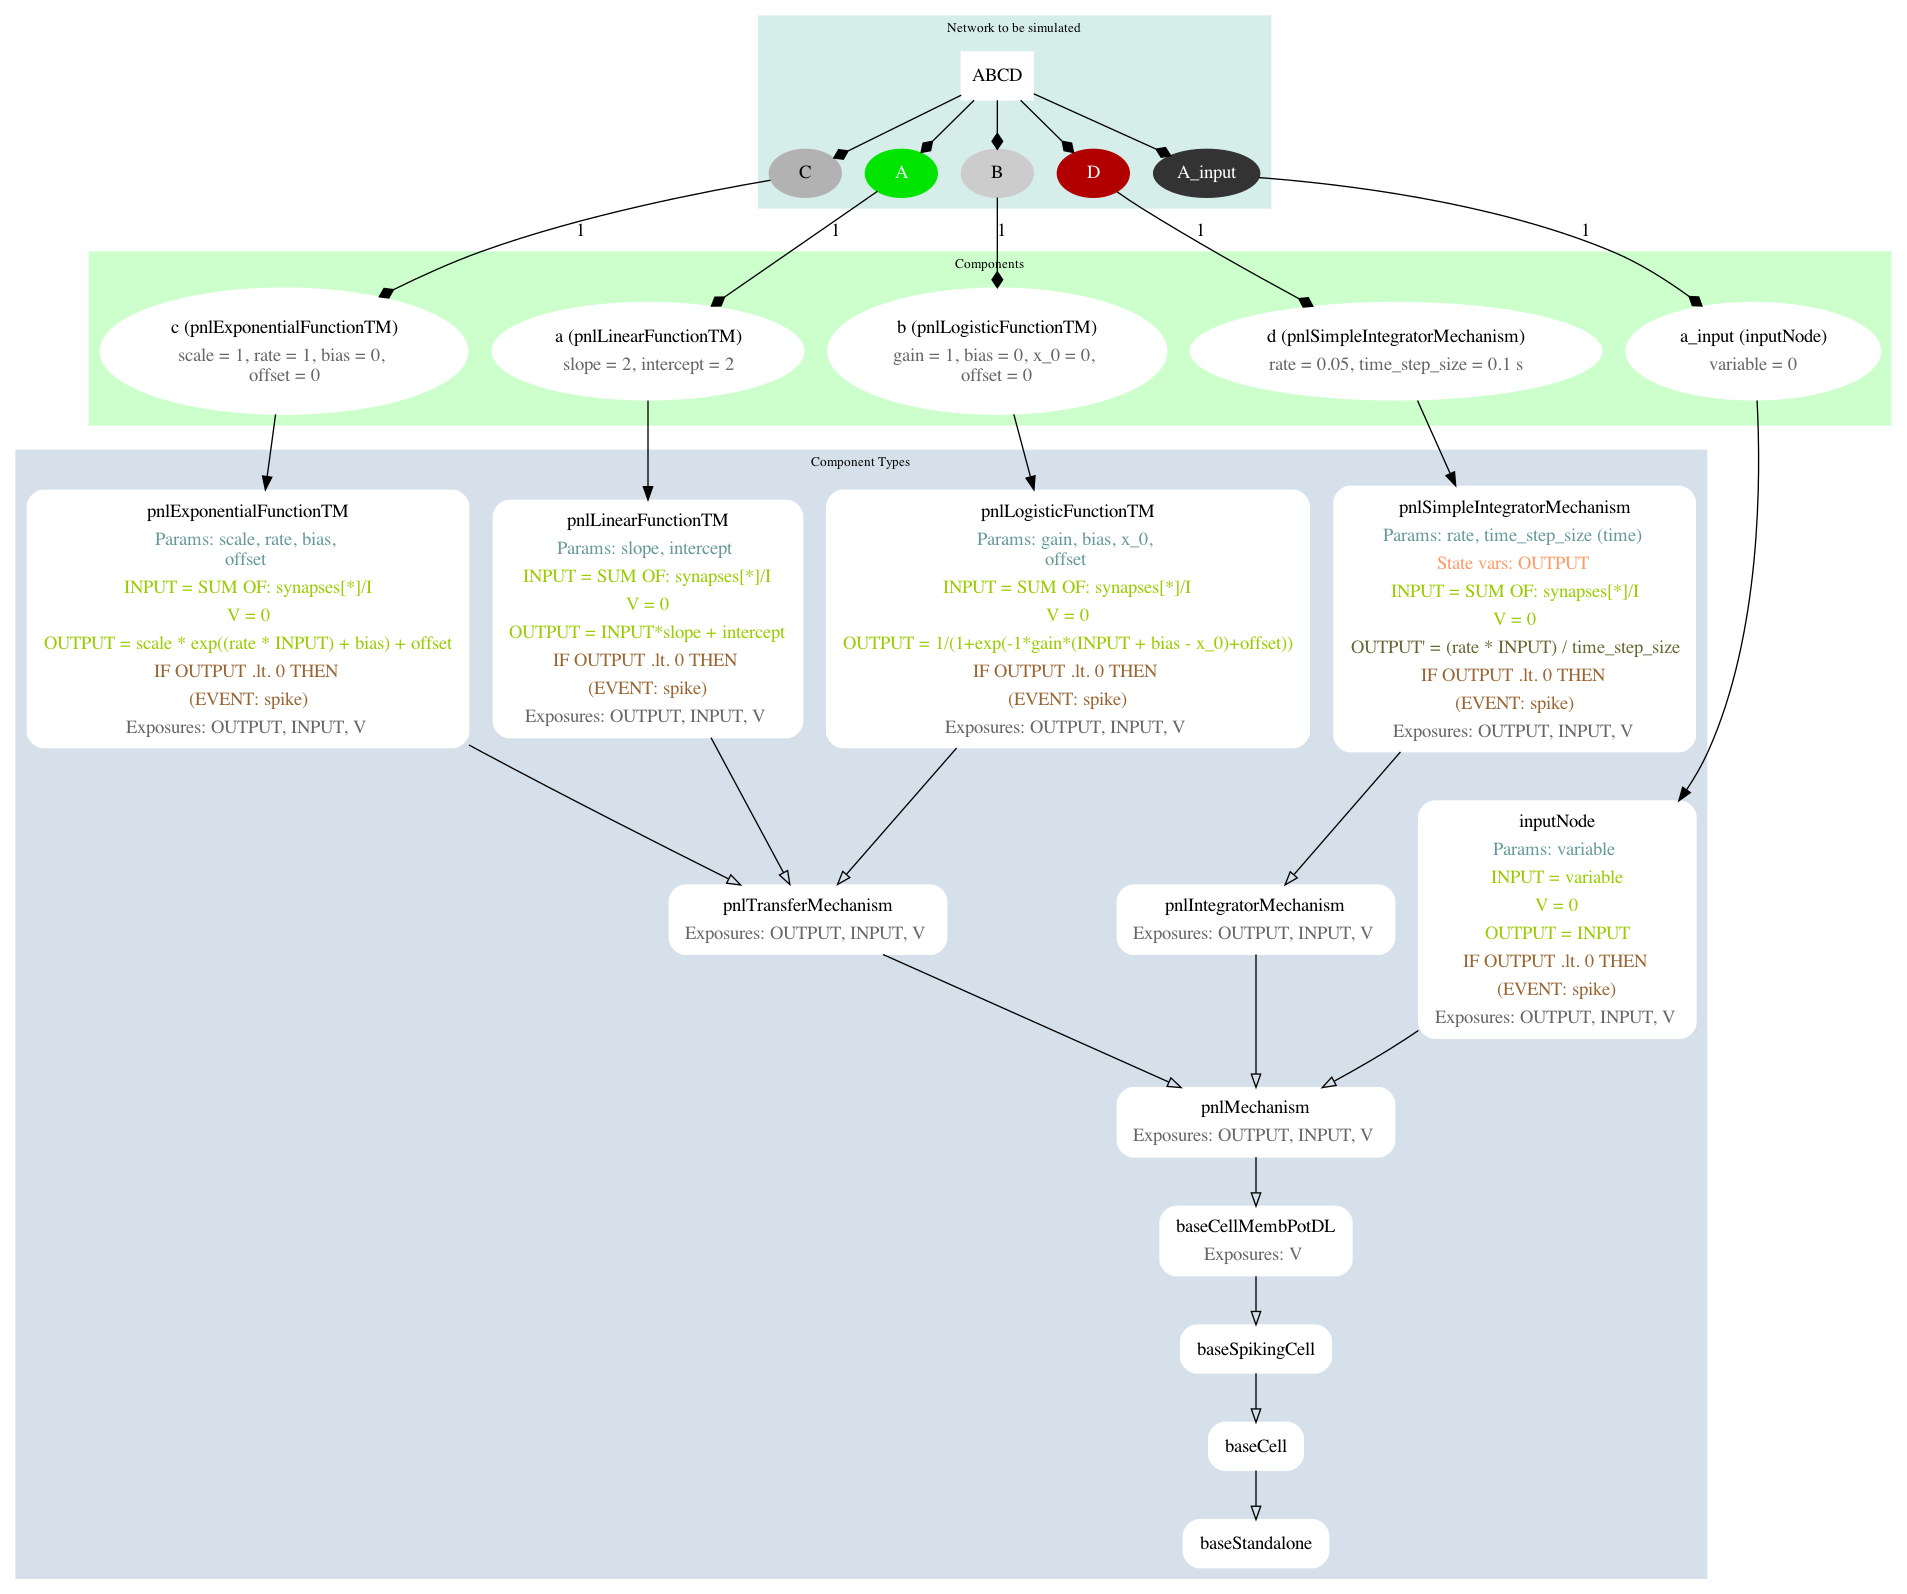
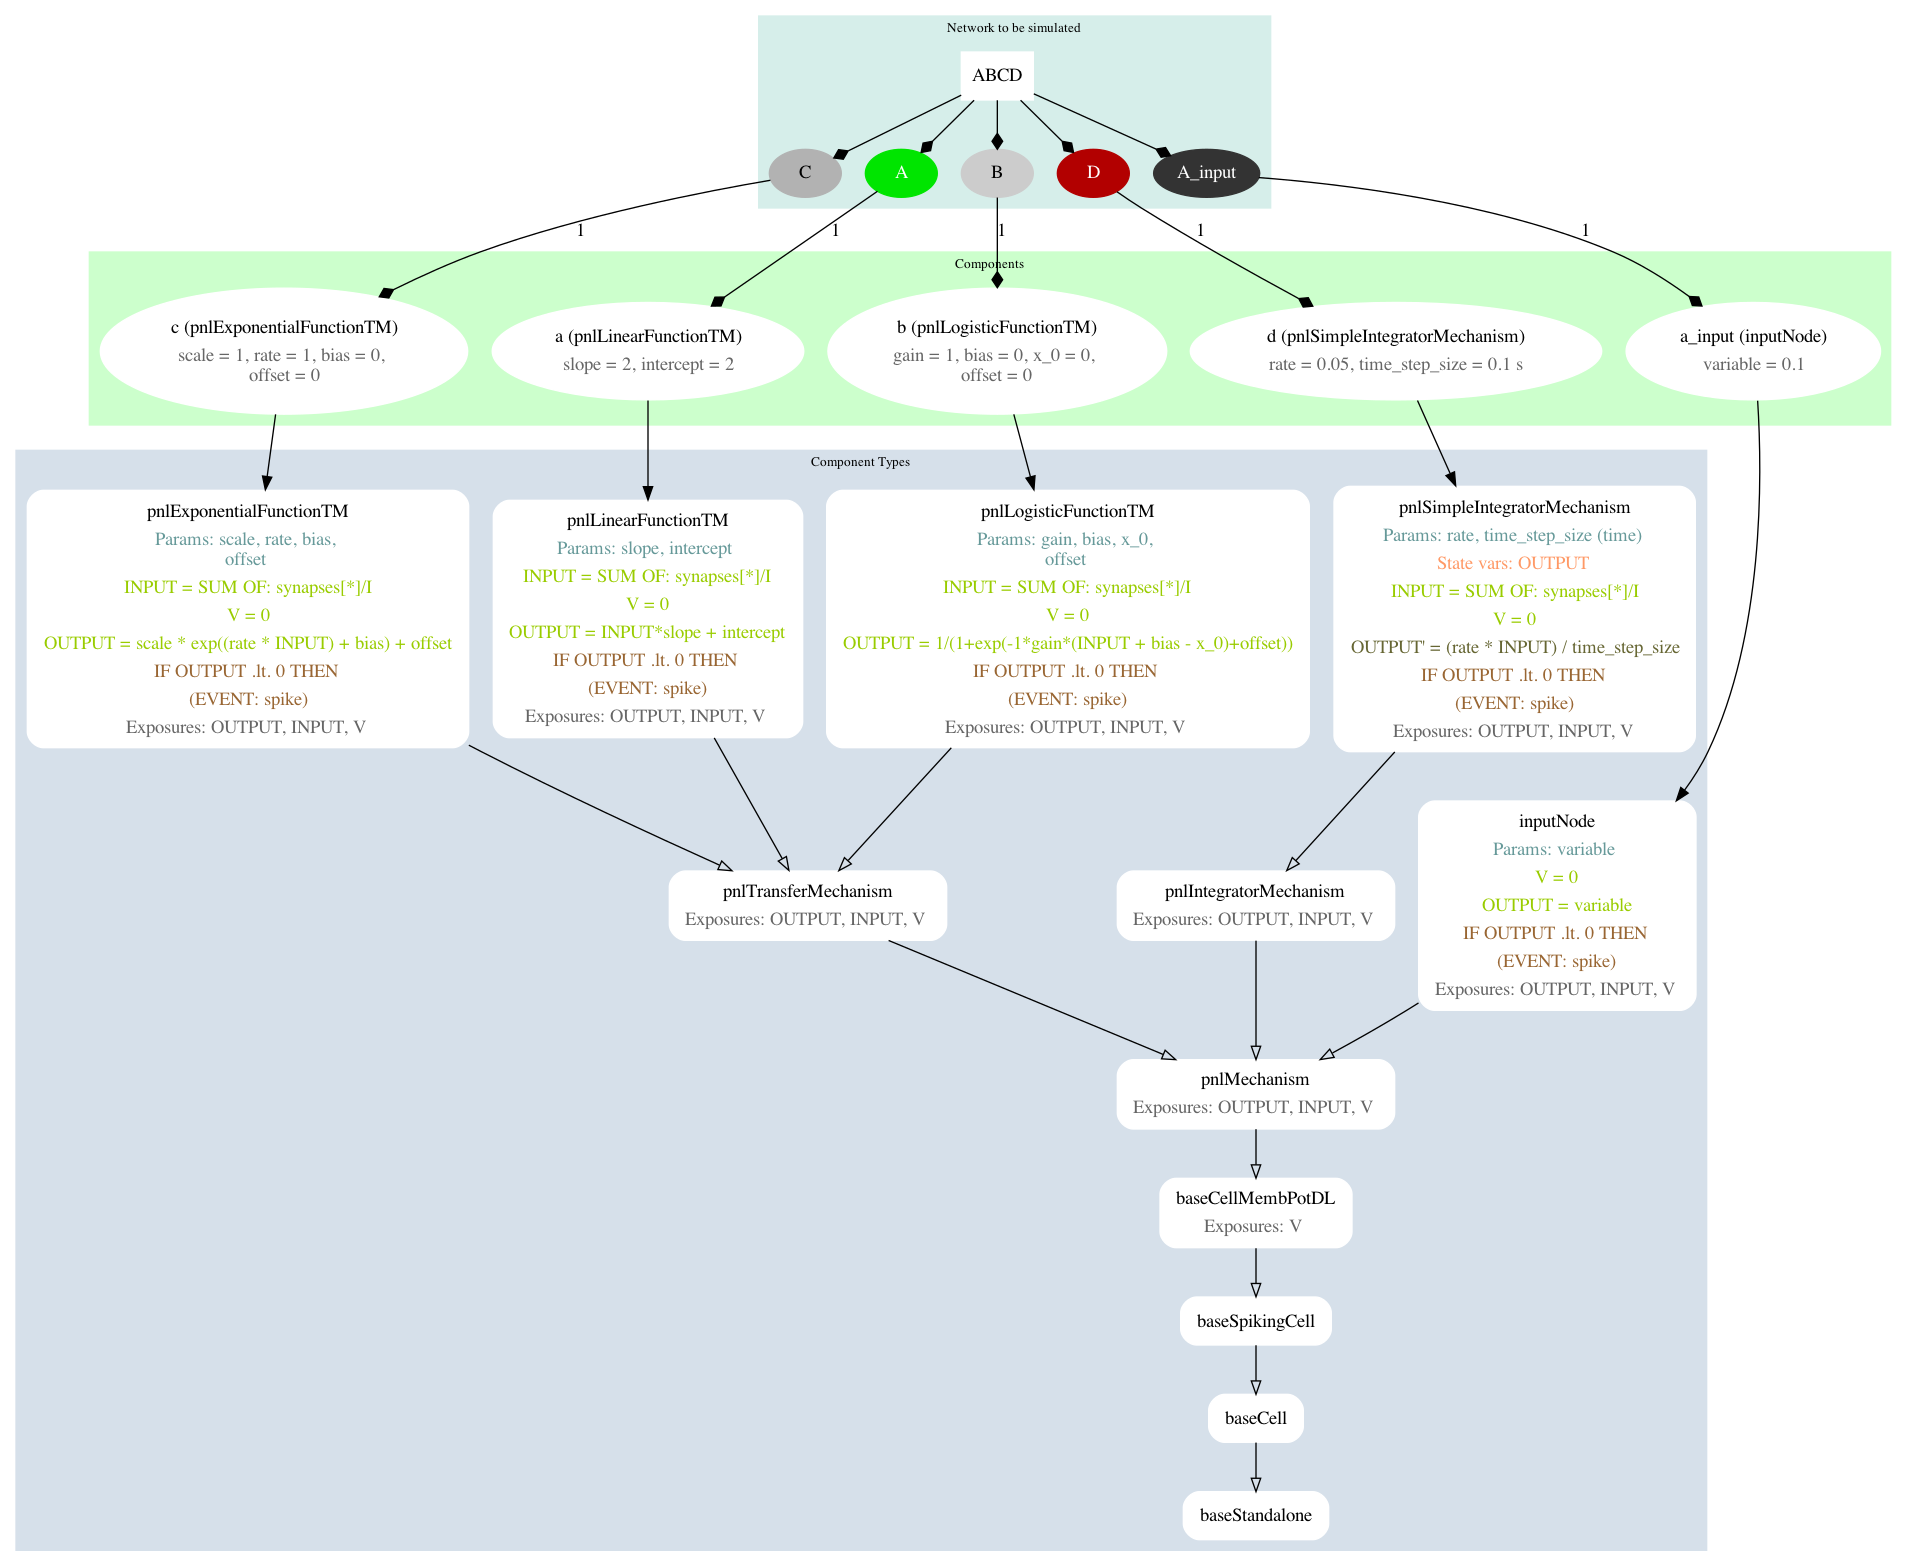
Regenerated some nml

diff --git a/NeuroML/ABCD.py b/NeuroML/ABCD.py
@@ -15,13 +15,14 @@ def generate():
     ###   Build new network
 
     net = Network(id='ABCD')
-    net.notes = 'Example of simplified network'
+    net.notes = 'Example of a simplified network'
 
-    net.parameters = { 'A_initial': 0, 'A_slope': 2}
+    net.parameters = { 'A_initial': 0.1, 'A_slope': 2.2}
 
     cellInput = Cell(id='a_input',
                      lems_source_file='PNL.xml',
                      parameters={'variable':'A_initial'})
+
     net.cells.append(cellInput)
 
     cellA = Cell(id='a', lems_source_file='PNL.xml')
@@ -129,7 +130,7 @@ def generate():
                                       type='continuousProjection',
                                       weight=1,
                                       random_connectivity=RandomConnectivity(probability=1)))
-
+    
 
     new_file = net.to_json_file('%s.json'%net.id)
 

diff --git a/NeuroML/run_pnl_ABCD.py b/NeuroML/run_pnl_ABCD.py
@@ -1,4 +1,4 @@
-# Generated by NeuroMLlite v0.3.0
+# Generated by NeuroMLlite v0.3.2
 
 import psyneulink as pnl
 

diff --git a/NeuroML/run_pnl_FN.py b/NeuroML/run_pnl_FN.py
@@ -1,4 +1,4 @@
-# Generated by NeuroMLlite v0.3.0
+# Generated by NeuroMLlite v0.3.2
 
 import psyneulink as pnl
 
